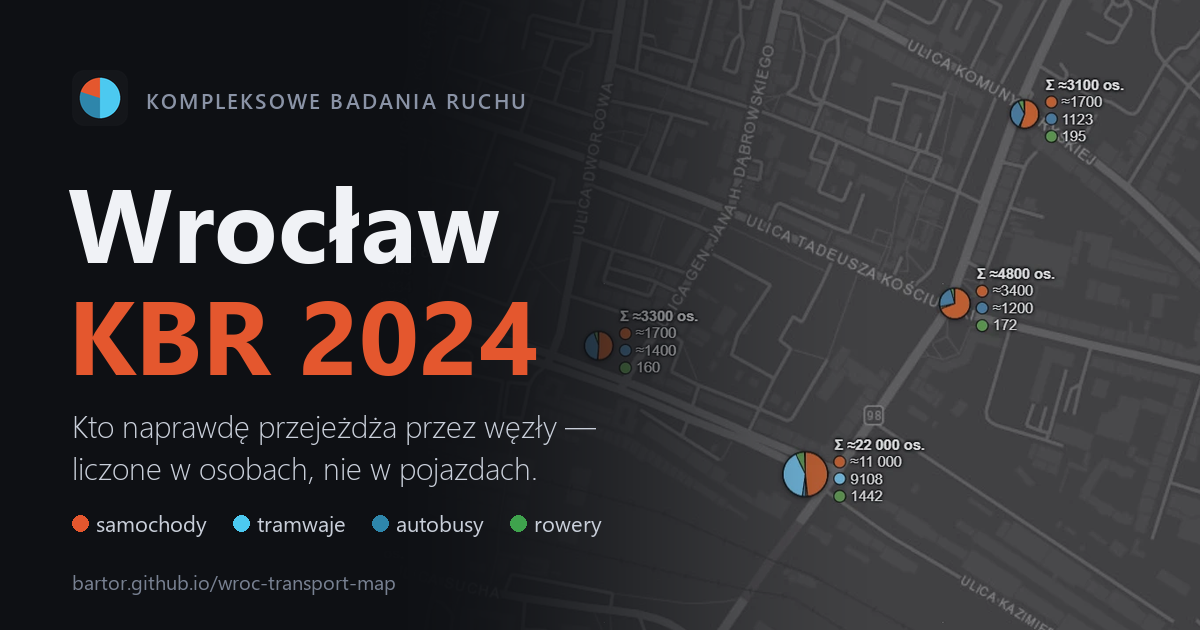
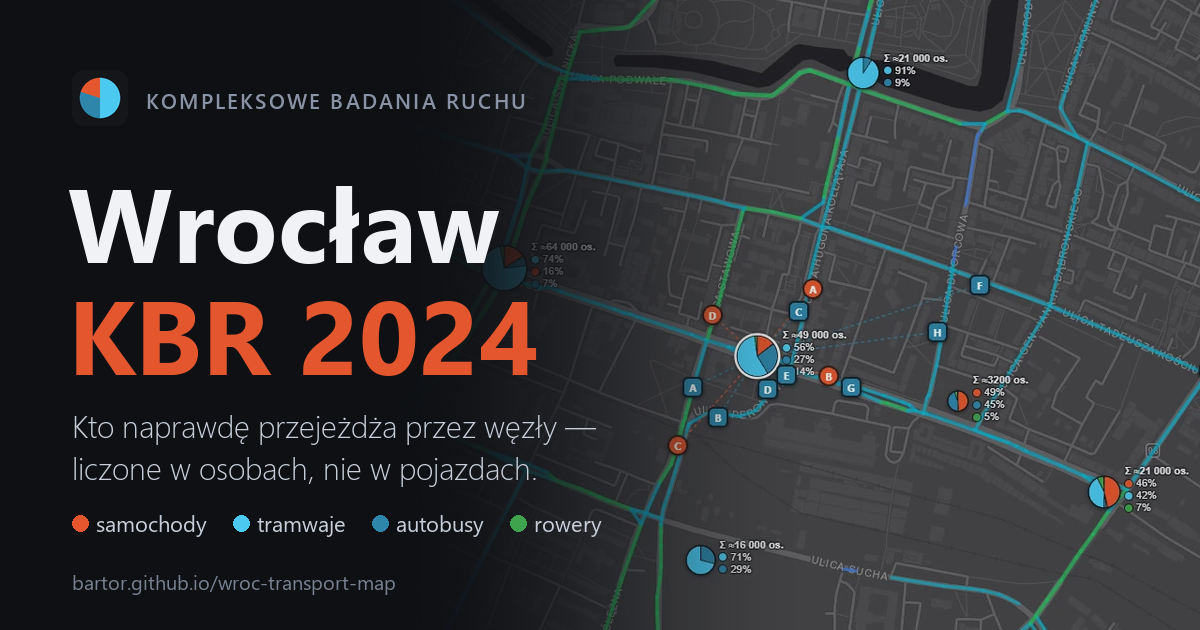
Refresh the link-preview cover with the node view
The new screenshot shows the section and stop dots around a node. It is
smaller than the old one, so fit it to the frame height and pin it right
instead of zooming in, which hid the main node behind the title.

diff --git a/scripts/make_brand.py b/scripts/make_brand.py
@@ -58,21 +58,20 @@ def wrap(draw, text, fnt, max_w):
 def og_image():
     W, H = 1200, 630
     src = Image.open(os.path.join(HERE, "og-source.webp")).convert("RGB")
-    # Cover the frame with some room to spare, so the crop can shift right
-    # (keeping the labelled pies clear of the title) without running off the
-    # edge of the screenshot.
-    k = max(W / src.width, H / src.height) * 1.12
+    # Fit the screenshot to the frame height and pin it right; whatever it
+    # leaves uncovered on the left disappears under the title's fade anyway.
+    k = max(H / src.height, (W - 380) / src.width)
     src = src.resize((round(src.width * k), round(src.height * k)), Image.LANCZOS)
-    left = src.width - W
+    im = Image.new("RGB", (W, H), (14, 16, 20))
     top = (src.height - H) // 2
-    im = src.crop((left, top, left + W, top + H))
+    im.paste(src.crop((0, top, src.width, top + H)), (W - src.width, 0))
     im = ImageEnhance.Brightness(im).enhance(0.92)
 
     # Fade the map out towards the left, where the title sits.
     fade = Image.new("L", (W, H))
     px = fade.load()
     for x in range(W):
-        t = min(1.0, max(0.0, (x - 380) / 520))     # 0 = fully covered
+        t = min(1.0, max(0.0, (x - 400) / 420))     # 0 = fully covered
         a = int(255 * (1 - t * t * (3 - 2 * t)))     # smoothstep
         for y in range(H):
             px[x, y] = a
